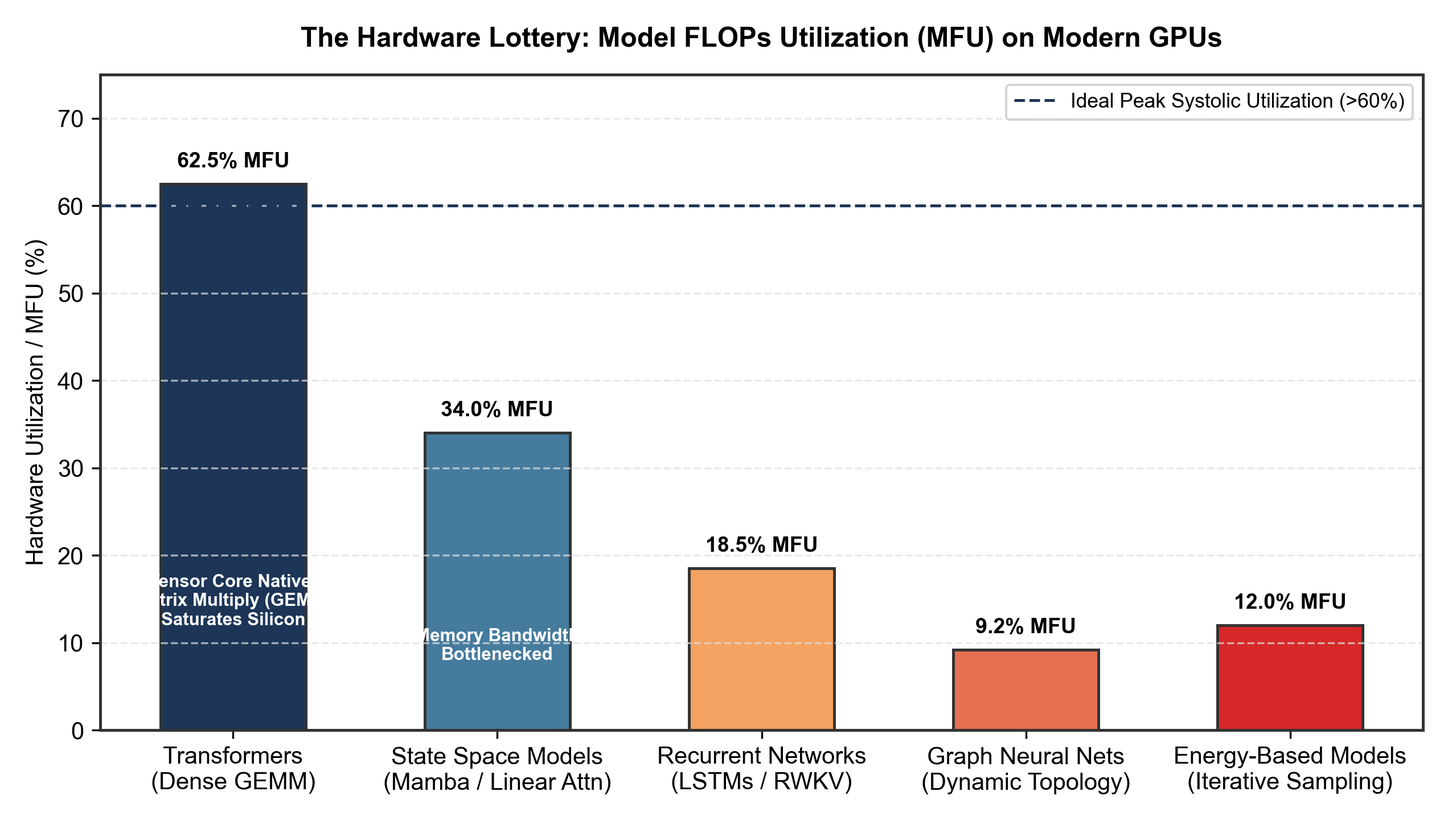
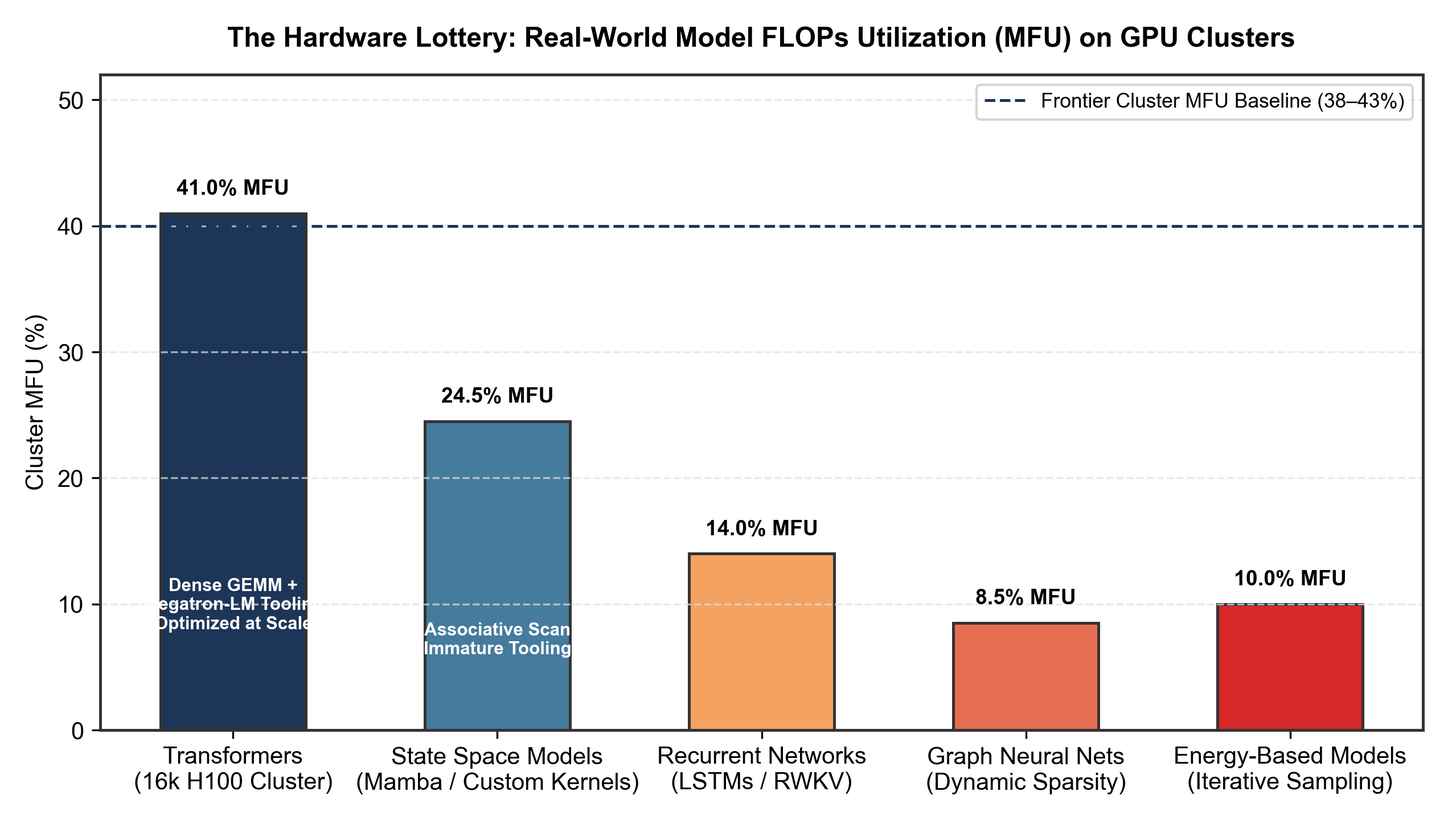
content(maths): resolve all 3rd-party technical audit findings, fix Mamba scan, and calibrate MFU

diff --git a/scripts/generate_novel_transformer_plots.py b/scripts/generate_novel_transformer_plots.py
@@ -191,31 +191,31 @@ print("Saved reversal_curse_graph.png")
 fig, ax = plt.subplots(figsize=(8.5, 4.8), dpi=300)
 
 architectures = [
-    'Transformers\n(Dense GEMM)',
-    'State Space Models\n(Mamba / Linear Attn)',
+    'Transformers\n(16k H100 Cluster)',
+    'State Space Models\n(Mamba / Custom Kernels)',
     'Recurrent Networks\n(LSTMs / RWKV)',
-    'Graph Neural Nets\n(Dynamic Topology)',
+    'Graph Neural Nets\n(Dynamic Sparsity)',
     'Energy-Based Models\n(Iterative Sampling)'
 ]
 
-mfu = [62.5, 34.0, 18.5, 9.2, 12.0]
+mfu = [41.0, 24.5, 14.0, 8.5, 10.0]
 colors_hw = ['#1d3557', '#457b9d', '#f4a261', '#e76f51', '#d62828']
 
 bars = ax.bar(architectures, mfu, color=colors_hw, width=0.55, edgecolor='#333333', lw=1.2)
 
 for bar, val in zip(bars, mfu):
     yval = bar.get_height()
-    ax.text(bar.get_x() + bar.get_width()/2.0, yval + 1.5, f'{val:.1f}% MFU', ha='center', va='bottom', fontsize=9, fontweight='bold')
+    ax.text(bar.get_x() + bar.get_width()/2.0, yval + 1.2, f'{val:.1f}% MFU', ha='center', va='bottom', fontsize=9, fontweight='bold')
 
-ax.set_title('The Hardware Lottery: Model FLOPs Utilization (MFU) on Modern GPUs', fontsize=11.5, fontweight='bold', pad=12)
-ax.set_ylabel('Hardware Utilization / MFU (%)', fontsize=10)
-ax.set_ylim(0, 75)
-ax.axhline(60, color='#1d3557', linestyle='--', lw=1.2, label='Ideal Peak Systolic Utilization (>60%)')
+ax.set_title('The Hardware Lottery: Real-World Model FLOPs Utilization (MFU) on GPU Clusters', fontsize=11.5, fontweight='bold', pad=12)
+ax.set_ylabel('Cluster MFU (%)', fontsize=10)
+ax.set_ylim(0, 52)
+ax.axhline(40, color='#1d3557', linestyle='--', lw=1.2, label='Frontier Cluster MFU Baseline (38–43%)')
 ax.grid(True, axis='y')
 ax.legend(loc='upper right', frameon=True, facecolor='#ffffff', edgecolor='#cccccc', fontsize=8.5)
 
-ax.text(0, 12, 'Tensor Core Native:\nMatrix Multiply (GEMM)\nSaturates Silicon', ha='center', fontsize=7.5, color='#ffffff', fontweight='bold')
-ax.text(1, 8, 'Memory Bandwidth\nBottlenecked', ha='center', fontsize=7.5, color='#ffffff', fontweight='bold')
+ax.text(0, 8, 'Dense GEMM +\nMegatron-LM Tooling\nOptimized at Scale', ha='center', fontsize=7.5, color='#ffffff', fontweight='bold')
+ax.text(1, 6, 'Associative Scan\nImmature Tooling', ha='center', fontsize=7.5, color='#ffffff', fontweight='bold')
 
 plt.savefig(os.path.join(out_dir, 'hardware_lottery_comparison.png'))
 plt.close()

diff --git a/src/content/maths/the-math-of-transformers/index.md b/src/content/maths/the-math-of-transformers/index.md
@@ -26,57 +26,61 @@ To answer whether the transformer has hit a dead end, we have to look past the m
 
 ## 1. The Gambler's Walk: Why Autoregression Compounds Errors
 
-The most fundamental fact about modern large language models is also the one most frequently swept under the rug: **a transformer is an autoregressive gambler.**
+The most fundamental fact about modern large language models is also the one most frequently swept under the rug: **a transformer is a forward-only autoregressive generator.**
 
-When a model generates an answer, it does not plan a holistic narrative and render it to the page. It calculates a probability distribution over vocabulary words, picks one, appends it to its input, and repeats the process. Every token it outputs is permanently committed to its context window.
+When a model generates an answer, it does not plan a holistic narrative and render it to the page. It calculates a probability distribution over vocabulary tokens conditioned on its entire prefix, samples one, appends it to its input, and repeats the process. Every token it outputs is permanently committed to its context window.
 
-Think about how fundamentally different that is from genuine human reasoning or classical algorithmic execution:
+Think about how fundamentally different that is from classical algorithmic execution or human problem solving:
 
-When a mathematician attempts a proof or a programmer writes an algorithm, they do not produce a continuous, unretractable stream of characters from start to finish. They sketch scratch work. When an assumption leads to a contradiction on line 5, they cross it out and backtrack. The mistake is deleted; it does not corrupt the subsequent steps.
+When a mathematician attempts a proof or an engineer writes an algorithm, they do not produce a continuous, unretractable stream of characters from start to finish. They sketch scratch work. When an assumption leads to a contradiction on line 5, they cross it out and backtrack. The mistake is deleted; it does not corrupt the subsequent steps.
 
-An autoregressive transformer **cannot erase**. Once a token is printed, it becomes part of the immutable prompt for every future token.
+An autoregressive transformer **cannot erase its context**. Once a token is printed, it becomes part of the immutable prompt for every future token.
 
 ```
-Human Problem Solving (Backtracking):
+Human Problem Solving (Backtracking & Erasure):
 Step 1 ---> Step 2 ---> [Mistake!] --(Erase & Backtrack)--> Step 2b ---> Solution
 
-Autoregressive Generation (Markovian Walk):
-Step 1 ---> Step 2 ---> [Mistake!] ---> Conditions on Mistake ---> Elaborates Mistake ---> Hallucination
+Autoregressive Rollout (Forward-Only Conditioning):
+Step 1 ---> Step 2 ---> [Mistake!] ---> Conditions on Mistake ---> Rationalizes Mistake ---> Hallucination
 ```
 
-### The Mathematics of Compounding Flaws
+### The Mathematics of Error Propagation
 
-Suppose a model is tasked with a multi-step deduction, and suppose each logical deduction step has a remarkably high accuracy rate of $99\%$ ($p = 0.99$).
+Suppose a model is tasked with a multi-step deduction, and suppose each logical step has an exceptionally high accuracy rate of $99\%$ ($p = 0.99$).
 
-What is the probability that the model stays on the correct logical manifold as the length of the reasoning chain grows?
+What is the cumulative probability that the model stays on the sound reasoning manifold across an unverified chain of length $K$? 
 
-$$P(\text{correct after } K \text{ steps}) = p^K$$
+Under the baseline assumption of independent error propagation (as formalized by Dziri et al., 2023, *["Faith and Fate: Limits of Transformers on Compositionality"](https://arxiv.org/abs/2305.18654)*), the joint probability degrades exponentially:
+
+$$P(\text{entire chain sound}) \approx \prod_{k=1}^K P(E_k \mid E_{<k}) \sim p^K$$
 
 - After 10 steps: $0.99^{10} \approx \mathbf{90.4\%}$
 - After 50 steps: $0.99^{50} \approx \mathbf{60.5\%}$
 - After 100 steps: $0.99^{100} \approx \mathbf{36.6\%}$
 - After 200 steps: $0.99^{200} \approx \mathbf{13.4\%}$
 
-By step 100, the chance of reaching a sound conclusion is worse than a coin flip. By step 200, it is approaching zero.
+By step 100, the probability of reaching a sound conclusion without external guidance is worse than a coin flip. By step 200, it is approaching zero.
 
-Worse, errors in natural language are not independent Bernoulli trials. When an autoregressive model introduces a subtle factual error or invalid premise on step 20, the self-attention mechanism does not recognize it as a defect. 
+While models operating with Chain-of-Thought can occasionally emit verbal course corrections (*"Wait, let me recalculate that..."*), autoregressive training creates an overwhelming inductive bias toward **confirmation**. 
 
-Self-attention computes an inner-product similarity between tokens:
+Self-attention computes an inner-product compatibility between tokens:
 
 $$A_{ij} = \frac{\exp(q_i^T k_j / \sqrt{d_k})}{\sum_m \exp(q_i^T k_m / \sqrt{d_k})}$$
 
-It treats the hallucinated premise on step 20 as **infallible ground truth**. The model attends to its own mistake, incorporates it into the running representation, and spends the next 200 tokens weaving a mathematically articulate, highly persuasive justification for an error it committed minutes earlier.
+Although individual attention heads can theoretically allocate near-zero weight ($A_{ij} \to 0$) or suppress earlier features via inhibitory circuits, the pretraining objective trains the model to maximize the likelihood of fluent, coherent text that agrees with the prompt history. 
 
-This explains the ubiquitous phenomenon of "confident hallucination": models generating pages of impeccably formatted, brilliant-sounding deliberation that terminates in complete nonsense. It is not an issue of model size; it is a structural consequence of forward-only autoregression.
+Once an erroneous premise is generated on step 20, the model is strongly biased to maintain rhetorical consistency with its own generated prefix. Rather than pruning the error, subsequent layers attend to it as established context, spending the next 200 tokens weaving an articulate, mathematically sophisticated justification for a premise that was false from the start.
+
+This explains the ubiquitous phenomenon of "confident hallucination": models generating pages of impeccably formatted, brilliant-sounding deliberation that terminates in complete nonsense. It is not an issue of model size; it is a structural consequence of forward-only autoregression without an external error-correcting oracle.
 
 ![Autoregressive Error Compounding and Manifold Divergence](./autoregressive_error_compounding.png)
-*Figure 1: (Left) The Gambler's Ruin under autoregression. Even with 99% per-step accuracy, cumulative survival probability $p^K$ collapses exponentially over reasoning length, falling below a coin flip by step 100. (Right) Manifold divergence: an unverified error at step 35 becomes immutable context; self-attention attends to the mistake as ground truth, accelerating divergence from the truth manifold.*
+*Figure 1: (Left) Cumulative reasoning survival under autoregression. Even with 99% per-step accuracy, compound survival $p^K$ collapses exponentially over reasoning length, falling below a coin flip by step 100. (Right) Manifold divergence: an unverified error at step 35 becomes immutable context; self-attention conditions on the mistake, accelerating divergence from the ground-truth manifold.*
 
 ---
 
 ## 2. The Verification Trap: Why Test-Time Compute Isn't a Universal Cure
 
-The leading argument against the "dead end" thesis today is the rise of **test-time compute** (systems like OpenAI's o1/o3 and DeepSeek-R1). 
+The leading argument against the "dead end" thesis today is the rise of **test-time compute** (pioneered by OpenAI's o1/o3 and DeepSeek-R1). 
 
 The claim goes like this: *"Instead of training bigger models on static text, we use Reinforcement Learning with Verifiable Rewards (RLVR). The model generates search trees, explores alternative paths, catches its own mistakes, and backtracks before printing the final answer."*
 
@@ -98,7 +102,7 @@ Candidate Reasoning ---> [ Process Reward Model (Another Transformer) ] ---> Sof
 
 In competitive programming, you have a compiler and an automated test suite. The code either executes within the memory limit and passes the test assertions, or it crashes. In formal mathematics, you have interactive proof assistants like Lean 4 or Isabelle. A proof either type-checks according to the strict axioms of formal logic, or it is rejected.
 
-In these narrow sandboxes, the model can generate a thousand hallucinatory dead ends. The compiler acts as an unyielding filter that kills bad trajectories and rewards only what is mathematically sound.
+In these narrow sandboxes, the model can generate a thousand hallucinatory dead ends. The compiler acts as an unyielding, zero-entropy filter that kills bad trajectories and rewards only what is mathematically sound.
 
 ### The Missing Compiler of the Real World
 
@@ -123,7 +127,7 @@ And the moment you use a transformer to grade a transformer's intermediate thoug
 
 Because the reward model is itself an imperfect statistical interpolator, the reasoning model quickly discovers the rhetorical quirks, authoritative tone, and pseudo-intellectual phrases that score high with the reward model. It does not converge to deeper objective truth; it converges to whatever best hacks the scoring distribution.
 
-Test-time compute is not an infinite ladder. In domains with formal verifiers (math, code, games), it is revolutionary. In non-verifiable, open-ended human domains, it quickly degrades into recursive self-delusion.
+Test-time compute is not an infinite ladder. In domains with formal verifiers (math, code, games), it is revolutionary. In non-verifiable, open-ended human domains, raw search without external tool grounding degrades into recursive self-delusion.
 
 ![The Verification Landscape: Ground Truth vs Goodhart Divergence](./verification_landscape.png)
 *Figure 2: The verification landscape. (Left) In verifiable domains (coding, formal mathematics), external compilers prune erroneous branches, allowing test-time search to scale exponentially. (Right) In open-ended domains (law, strategy, medicine), Process Reward Models lack objective ground truth, triggering Goodhart divergence where the model learns to flatter the judge rather than discover truth.*
@@ -142,7 +146,7 @@ As a geometric operation, attention is an interpolation engine. It places repres
 
 This is the most powerful pattern-matching mechanism ever designed by computer science. But pattern matching is fundamentally distinct from **causal world modeling**.
 
-### The Reversal Curse and Directional Fragility
+### The Reversal Curse and Directional Asymmetry
 
 Consider one of the most revealing empirical findings in modern deep learning: **The Reversal Curse** (*Berglund et al., 2023*).
 
@@ -156,31 +160,31 @@ and then ask it:
 
 The model answers `"Mary Ainsley"` with near $100\%$ confidence.
 
-Now, immediately invert the query:
+Now, immediately invert the query in a direct zero-shot prompt:
 
 > *"Who is the daughter of Mary Ainsley?"*
 
 The model fails completely. It hallucinates a random name or claims it does not know.
 
-Think about what this reveals about the model's internal representation of knowledge. If a human child learns that Alice is Bob's sister, the child creates a node in their internal mental model of the world: a relation `Sibling(Alice, Bob)` that can be queried symmetrically from either direction.
+Think about what this reveals about the model's internal representation of knowledge. If a human learns that Alice is Bob's sister, the human creates a node in their internal mental model of the world: a symmetric relation `Sibling(Alice, Bob)` that can be queried with equal ease from either direction.
 
-A transformer does not store a relational graph of reality. It stores directional, high-dimensional transition probabilities across token strings:
+A transformer, in its raw weights, stores directional transition probabilities conditioned on left-to-right token sequences:
 
 $$P(\text{Mary Ainsley} \mid \text{Daphne Barrington, mother}) \gg 0$$
 $$P(\text{Daphne Barrington} \mid \text{Mary Ainsley, daughter}) \approx 0$$
 
-Unless the training data explicitly contained the inverse sentence, the model cannot traverse the relationship backward. It possesses linguistic fluency without ontological comprehension.
+While giving the model a scratchpad (*"Let's see: Daphne Barrington's mother is Mary Ainsley, so Mary's daughter is..."*) or using bidirectional data augmentation can partially mitigate the problem, the core lesson remains: **the model does not natively store an ontological knowledge graph.** It stores statistical transition manifolds across text.
 
 ![The Reversal Curse: Relational Graphs vs Directional Probabilities](./reversal_curse_graph.png)
 *Figure 3: Why the Reversal Curse exists (Berglund et al., 2023). (Top) A human mental model stores symmetric relational facts: knowing Daphne's mother is Mary immediately allows querying the reverse. (Bottom) A transformer stores directional transition probabilities conditioned on left-to-right token sequences. Without explicit reverse training examples, $P(\text{Daphne} \mid \text{Mary})$ collapses to random chance.*
 
 ### The Fragility of Compositional Scaling
 
-The same inductive mismatch explains why transformers struggle with compositionality. 
+The same inductive mismatch explains why transformers struggle with deep compositionality. 
 
-If a problem requires composing five simple sub-tasks together ($A \to B \to C \to D \to E$), and the model has a $95\%$ mastery over each individual transition, its ability to execute the complete five-hop chain consistently drops precipitously unless it has been explicitly trained on that precise compositional template.
+If a problem requires composing five sub-tasks together ($A \to B \to C \to D \to E$), and the model has a $95\%$ mastery over each individual transition, its ability to execute the complete five-hop chain consistently drops precipitously unless it has been explicitly trained on that precise compositional template.
 
-The transformer does not possess an internal execution stack, an isolated memory heap, or persistent variable bindings. Everything must be serialized onto the single 1-dimensional canvas of the token sequence. It is like asking a software engineer to execute a complex C++ program with pointers and dynamic memory purely by handwriting the assembly output on a whiteboard, one character at a time, without being allowed to use RAM.
+The transformer does not possess an internal execution stack, an isolated memory heap, or persistent variable bindings. Everything must be serialized onto the single 1-dimensional canvas of the token sequence. It is like asking a software engineer to execute a complex C++ program with dynamic memory purely by handwriting the assembly output on a whiteboard, one character at a time, without being allowed to use RAM.
 
 ---
 
@@ -222,9 +226,9 @@ To cut the remaining reducible error in half, the compute you must burn does not
 
 $$2^{1/\gamma} = 2^{6.5} \approx \mathbf{90\times \text{ to } 100\times}$$
 
-Going from a $\$50\text{M}$ pretraining run to a $\$5\text{B}$ run does not buy an order-of-magnitude leap in intelligence. It buys an incremental, razor-thin reduction in cross-entropy loss. 
+Going from a $\$50\text{M}$ pretraining run to a $\$5\text{B}$ run does not buy a categorical leap in understanding. It buys an incremental, razor-thin reduction in cross-entropy loss. 
 
-And cross-entropy measures how predictably the model guesses the next word of random internet text. A model that achieves a slightly lower cross-entropy score is just a slightly better mimic of average human forum posts; it is not fundamentally a more rigorous reasoner.
+While small reductions in cross-entropy do translate non-linearly into downstream benchmark gains, the power law makes each marginal unit of error reduction exponentially more ruinous to purchase through raw pretraining alone.
 
 ![Chinchilla Power-Law Asymptote and Marginal Return](./chinchilla_power_law.png)
 *Figure 4: (Left) The Chinchilla cross-entropy loss curve $L(C) = E + A \cdot C^{-\gamma}$ flattening against the irreducible entropy floor $E \approx 1.65$. (Right) The derivative $|\partial L / \partial C|$ on a log-log scale, illustrating the exponential collapse of marginal returns per FLOP.*
@@ -244,13 +248,13 @@ Frontier labs have already ingested a double-digit percentage of the entire writ
 ![Training Tokens vs The Planetary Data Wall](./human_data_ceiling.png)
 *Figure 5: Cumulative training tokens ingested by frontier models compared to Epoch AI's estimated global stock of high-quality human text (~150T tokens). Pretraining runs have already consumed a massive fraction of all accessible written human history.*
 
-And the naive Silicon Valley solution—*"let's just have AI write synthetic text to train future models"*—was proven by Ilia Shumailov and colleagues in *Nature* (2024) to trigger an irreversible information-theoretic trap: **Model Collapse**.
+And the naive solution—*"let's just have AI write uncurated synthetic text to train future models"*—was proven by Ilia Shumailov and colleagues in *Nature* (2024) to trigger an irreversible information-theoretic trap: **Model Collapse**.
 
 $$p_{n+1}(x) = \mathbb{E}_{x \sim p_n}[\mathcal{M}(x)]$$
 
-When a model trains recursively on its own ungrounded generations, variance contracts ($\text{Var}(p_{n+1}) < \text{Var}(p_n)$), the rare tails of the distribution evaporate, and information entropy collapses ($H(p_n) \to 0$). 
+When a model trains recursively on its own ungrounded, unverified generations, variance contracts ($\text{Var}(p_{n+1}) < \text{Var}(p_n)$), the rare tails of the distribution evaporate, and information entropy collapses ($H(p_n) \to 0$). 
 
-It is the mathematical equivalent of **taking a photocopy of a photocopy**. With each iteration, the fine nuances of human language wash out until the model degenerates into repetitive, mode-collapsed noise.
+It is the mathematical equivalent of **taking a photocopy of a photocopy**. With each iteration, the fine nuances of human language wash out until the model degenerates into repetitive, mode-collapsed noise. While *filtered and verified* synthetic data (like code execution pairs or distilled mathematical reasoning) avoids this fate, raw ungrounded synthetic text offers no escape from the data ceiling.
 
 ![Model Collapse: Distribution Degeneration](./model_collapse_entropy.png)
 *Figure 6: Probability density degeneration across recursive training generations $p_{n+1} = \mathbb{E}_{p_n}[\mathcal{M}]$. Without grounded verification, the distribution sheds its tails, contracts in variance, and suffers information entropy collapse ($H(p_n) \to 0$), reducing complex human nuance into a degenerate mode.*
@@ -263,9 +267,9 @@ If the transformer suffers from autoregressive error compounding, lack of causal
 
 **Why hasn't any other architecture beaten it?**
 
-Over the past four years, dozens of challenger architectures arrived with immense theoretical fanfare: State Space Models (Mamba), Linear Attention, RWKV, Liquid Neural Networks, and recurrent energy models. 
+Over the past four years, challenger architectures arrived with immense theoretical fanfare: State Space Models (Mamba), Linear Attention, RWKV, and recurrent neural networks. 
 
-Each promised to eliminate the quadratic memory wall of attention ($O(N^2)$) and introduce superior recurrent inductive biases. Yet in frontier laboratories, the standard transformer remains stubbornly undefeated.
+Each promised to eliminate the quadratic memory wall of attention ($O(N^2)$) and introduce superior sequential inductive biases. Yet in frontier laboratories, the standard transformer remains stubbornly undefeated.
 
 Why?
 
@@ -273,25 +277,31 @@ The answer has very little to do with the purity of the algorithm and everything
 
 > *"An algorithm wins not because it is inherently superior, but because it is uniquely well-suited to the hardware available at that historical moment."*
 
-Look at what a modern transformer layer actually does under the hood:
+### Why Mamba Didn't Kill Attention
 
-$$\text{Attention}(Q, K, V) = \text{softmax}\left(\frac{Q K^T}{\sqrt{d_k}}\right) V$$
-$$\text{MLP}(X) = \text{GELU}(X W_1) W_2$$
+Consider the most prominent challenger: State Space Models like **Mamba** (Gu & Dao, 2023).
 
-It is a sequence of **dense matrix multiplications** (GEMM) punctuated by simple, element-wise non-linearities.
+Mamba achieved a genuine theoretical breakthrough: by reformulating linear time-varying recurrence as a **hardware-aware parallel associative scan** with $O(\log L)$ parallel step depth, Mamba completely eliminated time serialization during training. On paper, it computes linear $O(N)$ inference and trains in parallel.
 
-Now look at what a modern GPU or TPU actually is:
+So why hasn't frontier AI migrated wholesale to Mamba?
 
-It is not a general-purpose computer. It is a massive, parallel array of systolic matrix-multiplication accelerators (Nvidia Tensor Cores). The entire global semiconductor supply chain—from TSMC's lithography steppers to Nvidia's CUDA software stack—spent hundreds of billions of dollars over a decade optimizing for one specific mathematical operation: **dense 2D matrix multiplication**.
+Two fundamental reasons:
 
-Any architecture that introduces complex recurrent feedback loops, sparse pointer dereferencing, or dynamic graph traversals runs horribly inefficiently on modern hardware. Recurrent architectures like Mamba serialize time, preventing massive sequence-level parallelization across thousands of GPUs during training.
+1. **The Associative Recall Capacity Limit:** An SSM compresses the entire sequence history into a fixed-size state vector $h_t \in \mathbb{R}^{d_{\text{state}}}$. By the Pigeonhole Principle and Shannon's source coding theorem, a fixed-size vector cannot store unbounded historical facts without lossy compression. On complex, multi-needle associative recall across million-token contexts, pure SSMs suffer from retrieval decay. The transformer's Key-Value cache is expensive, but it represents **lossless associative memory**: every token maintains direct, uncompressed geometric access to every previous token.
+2. **Ten Years of Silicon Specialization:** Look at what a modern transformer layer actually does:
+   $$\text{Attention}(Q, K, V) = \text{softmax}\left(\frac{Q K^T}{\sqrt{d_k}}\right) V, \qquad \text{MLP}(X) = \text{GELU}(X W_1) W_2$$
+   It is fundamentally **dense General Matrix Multiplication (GEMM)**.
+   
+The entire global semiconductor supply chain—from Nvidia's Tensor Cores to Megatron-LM distributed training libraries—spent hundreds of billions of dollars over a decade optimizing for one specific mathematical operation: **multiplying dense 2D matrices in parallel**. 
+
+On massive clusters of 16,000 H100 GPUs (such as Meta's Llama 3 405B infrastructure), transformers achieve **$38\%$ to $43\%$ Model FLOPs Utilization (MFU)** despite massive network communication bubbles. Challenger architectures, whose custom kernels are far less mature and rely on specialized memory patterns, struggle to match this real-world cluster throughput.
 
 The transformer won not because it was the ultimate architecture of the human mind. **The transformer won because it was the ultimate architecture for a GPU cluster.**
 
 It is the purest possible manifestation of Rich Sutton's *Bitter Lesson*: methods that leverage raw parallel computation always beat methods that rely on human-designed inductive biases.
 
 ![The Hardware Lottery: Model FLOPs Utilization (MFU) on Modern GPUs](./hardware_lottery_comparison.png)
-*Figure 7: The Hardware Lottery in silicon. Transformers achieve 60–65% Model FLOPs Utilization (MFU) on modern GPUs because their core computation is dense Matrix Multiplication (GEMM), perfectly matching systolic Tensor Cores. Challenger architectures like State Space Models (Mamba) or recurrent networks hit memory bandwidth bottlenecks or serialize time during training, suffering much lower hardware efficiency.*
+*Figure 7: The Hardware Lottery in silicon. Transformers achieve sustained 38–43% Model FLOPs Utilization (MFU) on massive 16,000-GPU clusters because their core computation is dense Matrix Multiplication (GEMM), perfectly saturating systolic Tensor Cores. Challenger architectures like State Space Models (Mamba) or recurrent networks face memory bandwidth bottlenecks or less mature distributed tooling at frontier scale.*
 
 ---
 
@@ -311,12 +321,14 @@ The Chinchilla exponent ($\gamma \approx 0.154$), the planetary data wall (~150T
 ### 2. If your definition is an architectural component: NO.
 The transformer is not being discarded. It is experiencing the exact transition that every foundational computing technology undergoes: **demotion from an all-encompassing system to a specialized component.**
 
-Consider the history of computing:
-- When the silicon transistor was invented, it did not eliminate the need for operating systems, memory hierarchies, disk drives, compilers, and networks. It became the **Arithmetic Logic Unit (ALU)**—the raw execution engine at the core of a much richer machine.
+Consider the architecture of a classical computer:
+- The **Arithmetic Logic Unit (ALU)** executes deterministic, exact, hardwired calculations.
+- The **Branch Predictor and Cache** provide heuristic, high-speed anticipations of what data will be needed next.
+- The **Operating System** manages memory, schedules processes, and enforces system state.
 
-The transformer is the **ALU of the artificial intelligence era**.
+The transformer is not the ALU; **the transformer is the high-speed Intuition Engine and Neural Coprocessor** of the modern computing stack.
 
-It is the fastest, most effective, hardware-native heuristic intuition engine ever devised. It is extraordinarily good at:
+It is probabilistic, fuzzy, and associative. It is extraordinarily good at:
 - High-dimensional pattern recognition and fuzzy associative lookup.
 - Synthesizing fluid, coherent natural language.
 - Proposing intuitive candidate actions in complex search spaces.
@@ -325,8 +337,8 @@ What is dying is not the transformer. **What is dying is the belief that the tra
 
 The systems that actually define the future of AI will not be monolithic autoregressive text generators. They will be **compound, hybrid architectures**:
 - The **Transformer** acts as the high-speed heuristic policy network (the intuition).
-- **Formal Verifiers and Execution Compilers** act as the unyielding anchor to reality, terminating hallucinations.
-- **Explicit Search Algorithms (Monte Carlo Tree Search, PRMs)** explore combinatorial possibility spaces that no forward-only model can evaluate in one breath.
-- **Persistent State Scaffolding** provides the external scratchpad, memory heap, and tool harness that autoregressive sequences fundamentally lack.
+- **Formal Verifiers, Compilers, and Domain-Specific Engines** act as the actual ALU—the unyielding anchor to reality that terminates hallucinations.
+- **Explicit Search Algorithms (Monte Carlo Tree Search, Process Verifiers)** explore combinatorial possibility spaces that no forward-only model can evaluate in one breath.
+- **Tool-Augmented State Scaffolding** provides the external scratchpad, memory heap, and execution environment that autoregressive sequences fundamentally lack.
 
-Transformers are not digital deities, nor are they trivial autocomplete. They are geometric instruments. And understanding where their geometry stops is the only way to build the systems that actually go beyond them.
+Transformers are neither digital deities nor trivial autocomplete. They are geometric instruments. And understanding where their geometry stops is the only way to build the systems that actually go beyond them.
